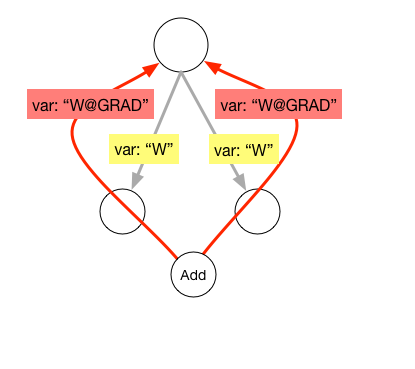
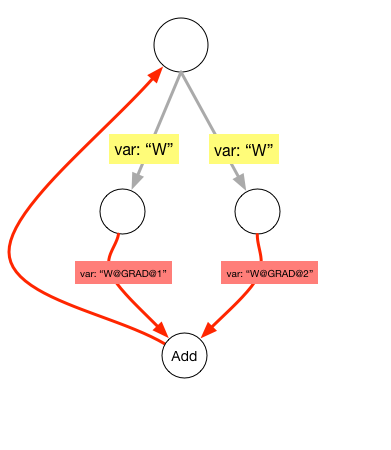
rewrite the document

diff --git a/paddle/framework/backward.md b/paddle/framework/backward.md
@@ -2,9 +2,20 @@
 
 ## Motivation
 
-In Neural Network, the backpropagation algorithm follows the chain rule, so we need to compound the gradient operators/expressions together with the chain rule. Every forward network needs a backward network to construct the full computation graph, the operator/expression's backward pass will be generated respect to forward pass.
+In Neural Network, many model is solved by the the backpropagation algorithm(known as BP) at present.  Technically it caculates the gradient of the loss function, then distributed back through the networks. Follows the chain rule, so we need to compound the gradient operators/expressions together with the chain rule. Every forward network needs a backward network to construct the full computation graph, the operator/expression's backward pass will be generated respect to forward pass. 
 
-## Backward Operator Registry
+## Implementation
+
+In this design doc, we exported only one API for generating the backward pass.
+
+```c++
+std::unique_ptr<OperatorBase> Backward(const OperatorBase& forwardOp,
+    const std::unordered_set<std::string>& no_grad_vars);
+```
+
+The implementation behind it can be divided into two parts. Namely, ** Backward Operator Creating** and **Backward Operator Building**.  
+
+###Backward Operator Registry
 
 A backward network is built up with several backward operators. Backward operators take forward operators' inputs outputs, and output gradients and then calculate its input gradients.
 
@@ -25,7 +36,7 @@ REGISTER_OP(mul, MulOp, MulOpMaker, mul_grad, MulOpGrad);
 
 `mul_grad` is the type of backward operator, and `MulOpGrad` is its class name.
 
-## Backward Opeartor Creating
+###Backward Opeartor Creating
 
 Given a certain forward operator, we can get its corresponding backward operator by calling:
 
@@ -43,40 +54,47 @@ The function `BuildGradOp` will sequentially execute following processes:
 
 4. Building backward operator with `inputs`, `outputs` and forward operator's attributes.
 
-## Backward Network Building
+###Backward Network Building
 
-A backward network is a series of backward operators. The main idea of building a backward network is creating backward operators in the inverted sequence and put them together.
-
-In our design, the network itself is also a kind of operator. So the operators contained by a big network may be some small network. 
-
-given a forward network, it generates the backward network. We only care about the Gradients—`OutputGradients`, `InputGradients`.
+A backward network is a series of backward operators. The main idea of building a backward network is creating backward operators in the inverted sequence and append them together one by one. There is some corner case need to process specially.
 
 1. Op 
 
-   when the input forward network is an Op, return its gradient Operator Immediately.
+   when the input forward network is an Op, return its gradient Operator Immediately. If all of its outputs are in no gradient set, then return a special `NoGradient` operator 
 
 2. NetOp 
 
-   when the input forward network is a NetOp, it needs to call the sub NetOp/Operators backward function recursively. During the process, we need to collect the `OutputGradients` name according to the forward NetOp.
+   In our design, the network itself is also a kind of operator(**NetOp**). So the operators contained by a big network may be some small network. When the input forward network is a NetOp, it needs to call the sub NetOp/Operators backward function recursively. During the process, we need to collect the `OutputGradients` name according to the forward NetOp.
+
+3. RnnOp
+
+   RnnOp is a nested stepnet operator.  Backward module need to recusively call `Backward` for every stepnet.
+
+4. Shared Variable
 
    **shared variable**. As illustrated in the pictures, two operator's `Output` `Gradient` will overwrite their shared input variable.  
 
-   <p align="center">
-   <img src="./images/duplicate_op.png" width="50%" ><br/>
+<p align="center">
+<img src="./images/duplicate_op.png" width="50%" ><br/>
 
-   1. Shared variable in operators. 
+	pic 1. Shared variable in operators. 
 
-   </p>
+</p>
 
-   Share variable between operators or same input variable used in multiple operators leads to a duplicate gradient variable. As demo show above, we need to rename gradient name recursively and add a generic add operator replace the overwrite links. 
+	Share variable between operators or same input variable used in multiple operators leads to a duplicate gradient variable. As demo show above, we need to rename gradient name recursively and add a generic add operator replace the overwrite links. 
 
-   <p align="center">
-   <img src="images/duplicate_op2.png" width="50%" ><br/>
+<p align="center">
+<img src="images/duplicate_op2.png" width="40%" ><br/>
 
-   2. Replace shared variable's gradient with `Add` operator.
+	pic 2. Replace shared variable's gradient with `Add` operator.
 
-   </p>
+</p>
+
+	Because our framework find variable accord to its name, we need rename the output links. We add a suffix of number represent its position in clockwise. 
+
+5. Part of Gradient is Zero.
+
+   In the whole graph, there is some case of that one operator's gradient is not needed, but its input's gradient is a dependency link of other operator,  we need to fill a same shape gradient matrix in the position. In our implement, we insert a special `fillZeroLike` operator.
 
 
-
-	Then collect the sub graph `OutputGradients`/`InputGradients` as the NetOp's and return it.
+Follow these rules above, then collect the sub graph `OutputGradients`/`InputGradients` as the NetOp's and return it.
